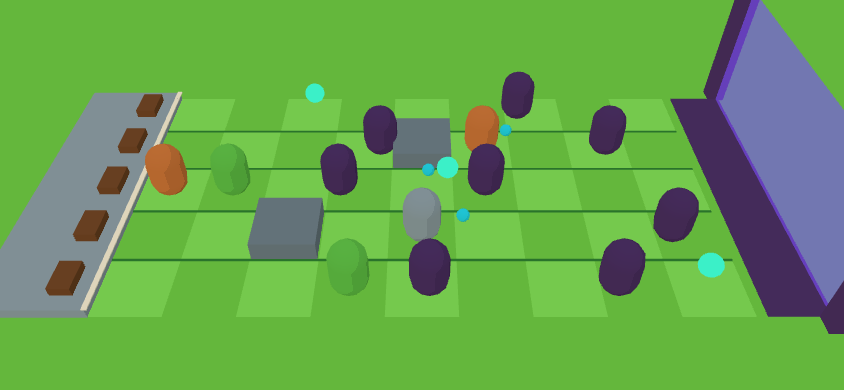
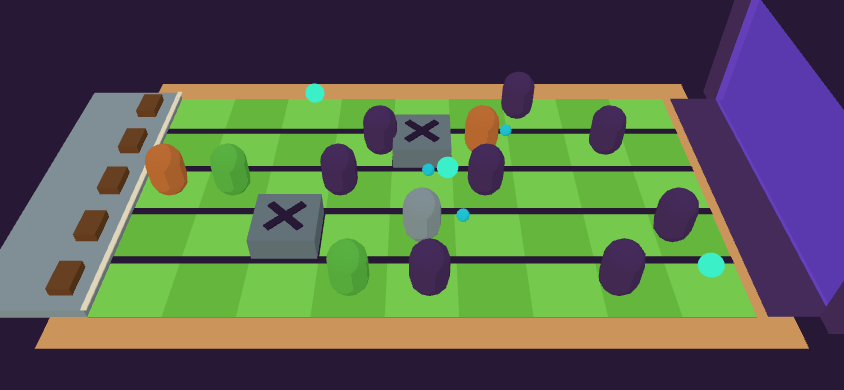
fix(render): make the greybox playfield unambiguous at a glance
Review feedback for #24: dark neutral void (9.4 Gloom shadow) plus a dirt frame
so the 5x9 field is clearly bounded, bold dark lane dividers so the five rows
read immediately, and taller rock blocks with a painted dark cross for blocked
tiles. All still merged geometry (36 draw calls, 4,778 triangles). The
dev-only preview fixture now also builds the DefenderState/SimState fields
issue #18 added (hp, maxHp, cardLevel, activeAtTick, cardCooldownEndTicks).

diff --git a/src/render/grid.ts b/src/render/grid.ts
@@ -28,6 +28,12 @@ const GRID_CENTER_Z = (LANE_COUNT * TILE_SIZE) / 2;
 const GROUND_WIDTH = 24;
 const GROUND_DEPTH = 18;
 
+/** Dirt frame width around the playfield, in tiles (greybox art, spec 9.4). */
+const LAWN_BORDER_WIDTH = 0.5;
+
+/** Height of the rock blocks that mark blocked tiles, in tiles (greybox art). */
+const ROCK_HEIGHT = 0.4;
+
 /** One terrain tile of the level definition (spec 7.1). */
 export interface TerrainTile {
   readonly lane: number;
@@ -119,20 +125,38 @@ function collectRockTiles(options: LevelViewOptions): ReadonlySet<string> {
   return rockTiles;
 }
 
+/** Adds one rock block with a dark cross on top, marking a blocked tile (spec 3.1, 7.1). */
+function addRockBlock(
+  blocks: BufferGeometry[],
+  crosses: BufferGeometry[],
+  x: number,
+  z: number,
+): void {
+  const baseY = 0.02;
+  pushBox(
+    blocks,
+    [TILE_SIZE * 0.96, ROCK_HEIGHT, TILE_SIZE * 0.96],
+    [x, baseY + ROCK_HEIGHT / 2, z],
+  );
+  for (const angle of [Math.PI / 4, -Math.PI / 4]) {
+    const bar = new BoxGeometry(TILE_SIZE * 0.7, 0.03, TILE_SIZE * 0.12);
+    bar.rotateY(angle);
+    bar.translate(x, baseY + ROCK_HEIGHT + 0.02, z);
+    crosses.push(bar);
+  }
+}
+
 /** Checkerboard grass tiles of spec 9.4, with rock blocks for blocked tiles. */
 function addTiles(group: Group, options: LevelViewOptions): void {
   const rockTiles = collectRockTiles(options);
   const lightTiles: BufferGeometry[] = [];
   const darkTiles: BufferGeometry[] = [];
   const rockBlocks: BufferGeometry[] = [];
+  const rockCrosses: BufferGeometry[] = [];
   for (let lane = 0; lane < LANE_COUNT; lane += 1) {
     for (let col = 0; col < COLUMN_COUNT; col += 1) {
       if (rockTiles.has(tileKey(lane, col))) {
-        pushBox(
-          rockBlocks,
-          [TILE_SIZE * 0.96, 0.32, TILE_SIZE * 0.96],
-          [columnToWorldX(col), 0.18, laneToWorldZ(lane)],
-        );
+        addRockBlock(rockBlocks, rockCrosses, columnToWorldX(col), laneToWorldZ(lane));
         continue;
       }
       const tiles = (lane + col) % 2 === 0 ? lightTiles : darkTiles;
@@ -142,15 +166,16 @@ function addTiles(group: Group, options: LevelViewOptions): void {
   addMergedMesh(group, lightTiles, GREYBOX_COLORS.grassLight);
   addMergedMesh(group, darkTiles, GREYBOX_COLORS.grassDark);
   addMergedMesh(group, rockBlocks, GREYBOX_COLORS.stoneDark);
+  addMergedMesh(group, rockCrosses, GREYBOX_COLORS.gloom);
 }
 
-/** Thin horizontal strips between the lanes, reading as lane dividers (spec 9.1). */
+/** Bold horizontal strips between the lanes, so the five rows read at a glance (spec 9.1). */
 function addLaneDividers(group: Group): void {
   const parts: BufferGeometry[] = [];
   for (let lane = 1; lane < LANE_COUNT; lane += 1) {
-    pushGroundPlane(parts, COLUMN_COUNT * TILE_SIZE, 0.05, GRID_CENTER_X, lane * TILE_SIZE, 0.03);
+    pushGroundPlane(parts, COLUMN_COUNT * TILE_SIZE, 0.14, GRID_CENTER_X, lane * TILE_SIZE, 0.035);
   }
-  addMergedMesh(group, parts, GREYBOX_COLORS.moss);
+  addMergedMesh(group, parts, GREYBOX_COLORS.gloom);
 }
 
 /** Stone base apron at x < 0, its bright base line at x = 0 and the trap pads (spec 3.1, 3.9). */
@@ -213,11 +238,44 @@ function addPortalMarker(group: Group): void {
   group.add(portal);
 }
 
-/** Grass ground around the lawn, so the camera never sees the void (spec 9.4). */
+/** Dark neutral void around the lawn, so the playfield reads clearly (spec 9.4 Gloom shadow). */
 function addGround(group: Group): void {
   const parts: BufferGeometry[] = [];
   pushGroundPlane(parts, GROUND_WIDTH, GROUND_DEPTH, GRID_CENTER_X, GRID_CENTER_Z, 0);
-  addMergedMesh(group, parts, GREYBOX_COLORS.grassDark);
+  addMergedMesh(group, parts, GREYBOX_COLORS.gloom);
+}
+
+/** Dirt frame around the 5 x 9 playfield, so the field boundary is unmistakable (spec 9.4). */
+function addLawnBorder(group: Group): void {
+  const width = COLUMN_COUNT * TILE_SIZE;
+  const depth = LANE_COUNT * TILE_SIZE;
+  const parts: BufferGeometry[] = [];
+  pushGroundPlane(
+    parts,
+    width + LAWN_BORDER_WIDTH * 2,
+    LAWN_BORDER_WIDTH,
+    GRID_CENTER_X,
+    -LAWN_BORDER_WIDTH / 2,
+    0.015,
+  );
+  pushGroundPlane(
+    parts,
+    width + LAWN_BORDER_WIDTH * 2,
+    LAWN_BORDER_WIDTH,
+    GRID_CENTER_X,
+    depth + LAWN_BORDER_WIDTH / 2,
+    0.015,
+  );
+  pushGroundPlane(parts, LAWN_BORDER_WIDTH, depth, -LAWN_BORDER_WIDTH / 2, GRID_CENTER_Z, 0.015);
+  pushGroundPlane(
+    parts,
+    LAWN_BORDER_WIDTH,
+    depth,
+    width + LAWN_BORDER_WIDTH / 2,
+    GRID_CENTER_Z,
+    0.015,
+  );
+  addMergedMesh(group, parts, GREYBOX_COLORS.dirt);
 }
 
 /** Disposes the geometry and material of one mesh. */
@@ -250,6 +308,7 @@ function disposeGroup(group: Group): void {
 export function createGrid(options: LevelViewOptions): Grid {
   const group = new Group();
   addGround(group);
+  addLawnBorder(group);
   addTiles(group, options);
   addLaneDividers(group);
   addBaseMarker(group, options);

diff --git a/src/render/greyboxPreview.ts b/src/render/greyboxPreview.ts
@@ -1,6 +1,6 @@
-import { enemyById } from '../data';
+import { defenderById, enemyById } from '../data';
 import { rules } from '../data/rules';
-import type { SimEvent, SimState } from '../sim/types';
+import type { DefenderState, LoadoutEntry, SimEvent, SimState } from '../sim/types';
 import type { LevelViewOptions } from './grid';
 import type { GameRenderer } from './renderer';
 
@@ -22,6 +22,45 @@ const PREVIEW_LEVEL: LevelViewOptions = {
     { lane: 3, col: 2, type: 'rock' },
   ],
 };
+
+/** Loadout of the preview level; the renderer does not read it yet (spec 3.12). */
+const PREVIEW_LOADOUT: readonly LoadoutEntry[] = [
+  { defenderId: 'sparkbolt_gremlin', level: 1 },
+  { defenderId: 'glowshroom_monk', level: 1 },
+  { defenderId: 'iron_granny', level: 1 },
+];
+
+interface PreviewDefender {
+  readonly id: number;
+  readonly defenderId: string;
+  readonly lane: number;
+  readonly col: number;
+}
+
+const PREVIEW_DEFENDERS: readonly PreviewDefender[] = [
+  { id: 1, defenderId: 'sparkbolt_gremlin', lane: 2, col: 0 },
+  { id: 2, defenderId: 'glowshroom_monk', lane: 2, col: 1 },
+  { id: 3, defenderId: 'iron_granny', lane: 3, col: 4 },
+  { id: 4, defenderId: 'sparkbolt_gremlin', lane: 1, col: 5 },
+  { id: 5, defenderId: 'glowshroom_monk', lane: 4, col: 3 },
+];
+
+/** Builds a preview defender at its data health, active since level start (spec 5.1, 3.4). */
+function createPreviewDefender(defender: PreviewDefender): DefenderState {
+  const definition = defenderById[defender.defenderId];
+  const maxHp = definition?.hp ?? 0;
+  return {
+    id: defender.id,
+    defenderId: defender.defenderId,
+    lane: defender.lane,
+    col: defender.col,
+    stars: 1,
+    hp: maxHp,
+    maxHp,
+    cardLevel: 1,
+    activeAtTick: 0,
+  };
+}
 
 /** One tick of gloomling movement: its data speed divided by the tick rate (spec 3.2, 6.1). */
 const ENEMY_TICK_STEP = (enemyById.gloomling?.speed ?? 0) / rules.tick.tickRate;
@@ -48,23 +87,14 @@ function createPreviewState(tick: number, enemyStep: number): Readonly<SimState>
   return {
     levelId: 'w1_l01',
     seed: 10001,
-    loadout: [
-      { defenderId: 'sparkbolt_gremlin', level: 1 },
-      { defenderId: 'glowshroom_monk', level: 1 },
-      { defenderId: 'iron_granny', level: 1 },
-    ],
+    loadout: PREVIEW_LOADOUT,
+    cardCooldownEndTicks: PREVIEW_LOADOUT.map(() => 0),
     tick,
     rng: { state: 0, next: () => 0 },
     nextId: 30,
     essence: 150,
     autoCollect: false,
-    defenders: [
-      { id: 1, defenderId: 'sparkbolt_gremlin', lane: 2, col: 0, stars: 1 },
-      { id: 2, defenderId: 'glowshroom_monk', lane: 2, col: 1, stars: 1 },
-      { id: 3, defenderId: 'iron_granny', lane: 3, col: 4, stars: 1 },
-      { id: 4, defenderId: 'sparkbolt_gremlin', lane: 1, col: 5, stars: 1 },
-      { id: 5, defenderId: 'glowshroom_monk', lane: 4, col: 3, stars: 1 },
-    ],
+    defenders: PREVIEW_DEFENDERS.map(createPreviewDefender),
     enemies: PREVIEW_ENEMIES.map((enemy) => ({
       id: enemy.id,
       enemyId: 'gloomling',
